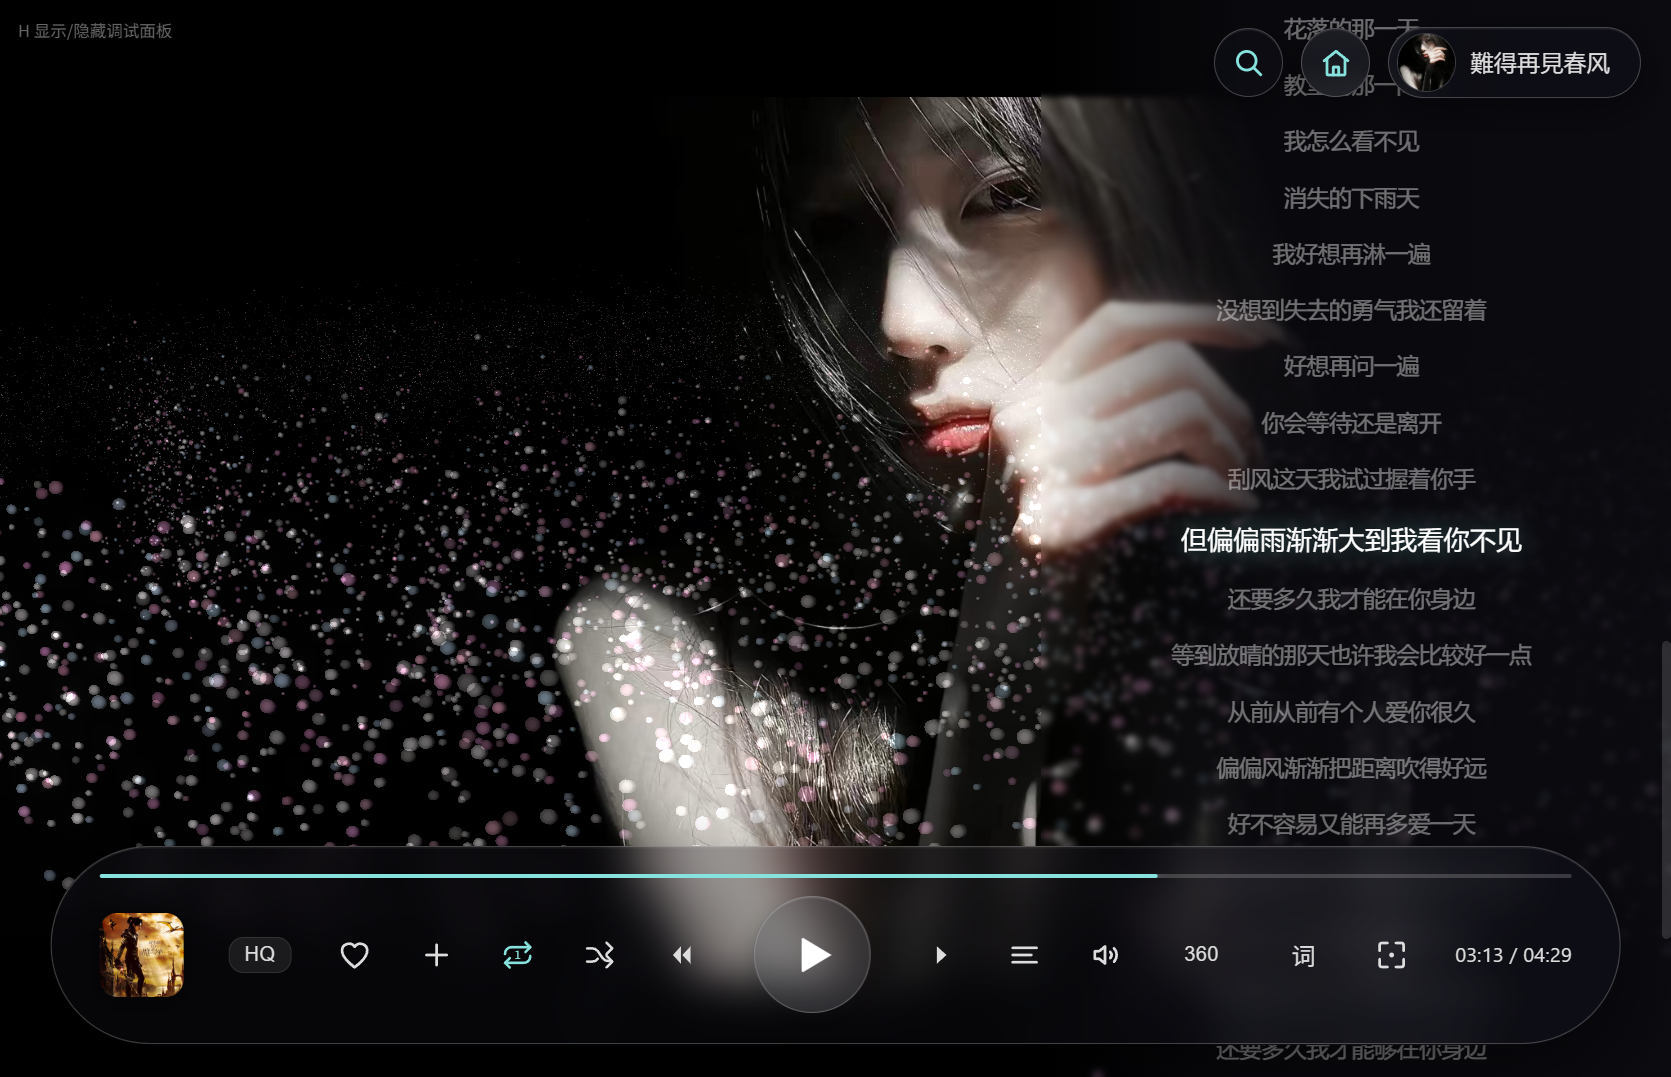
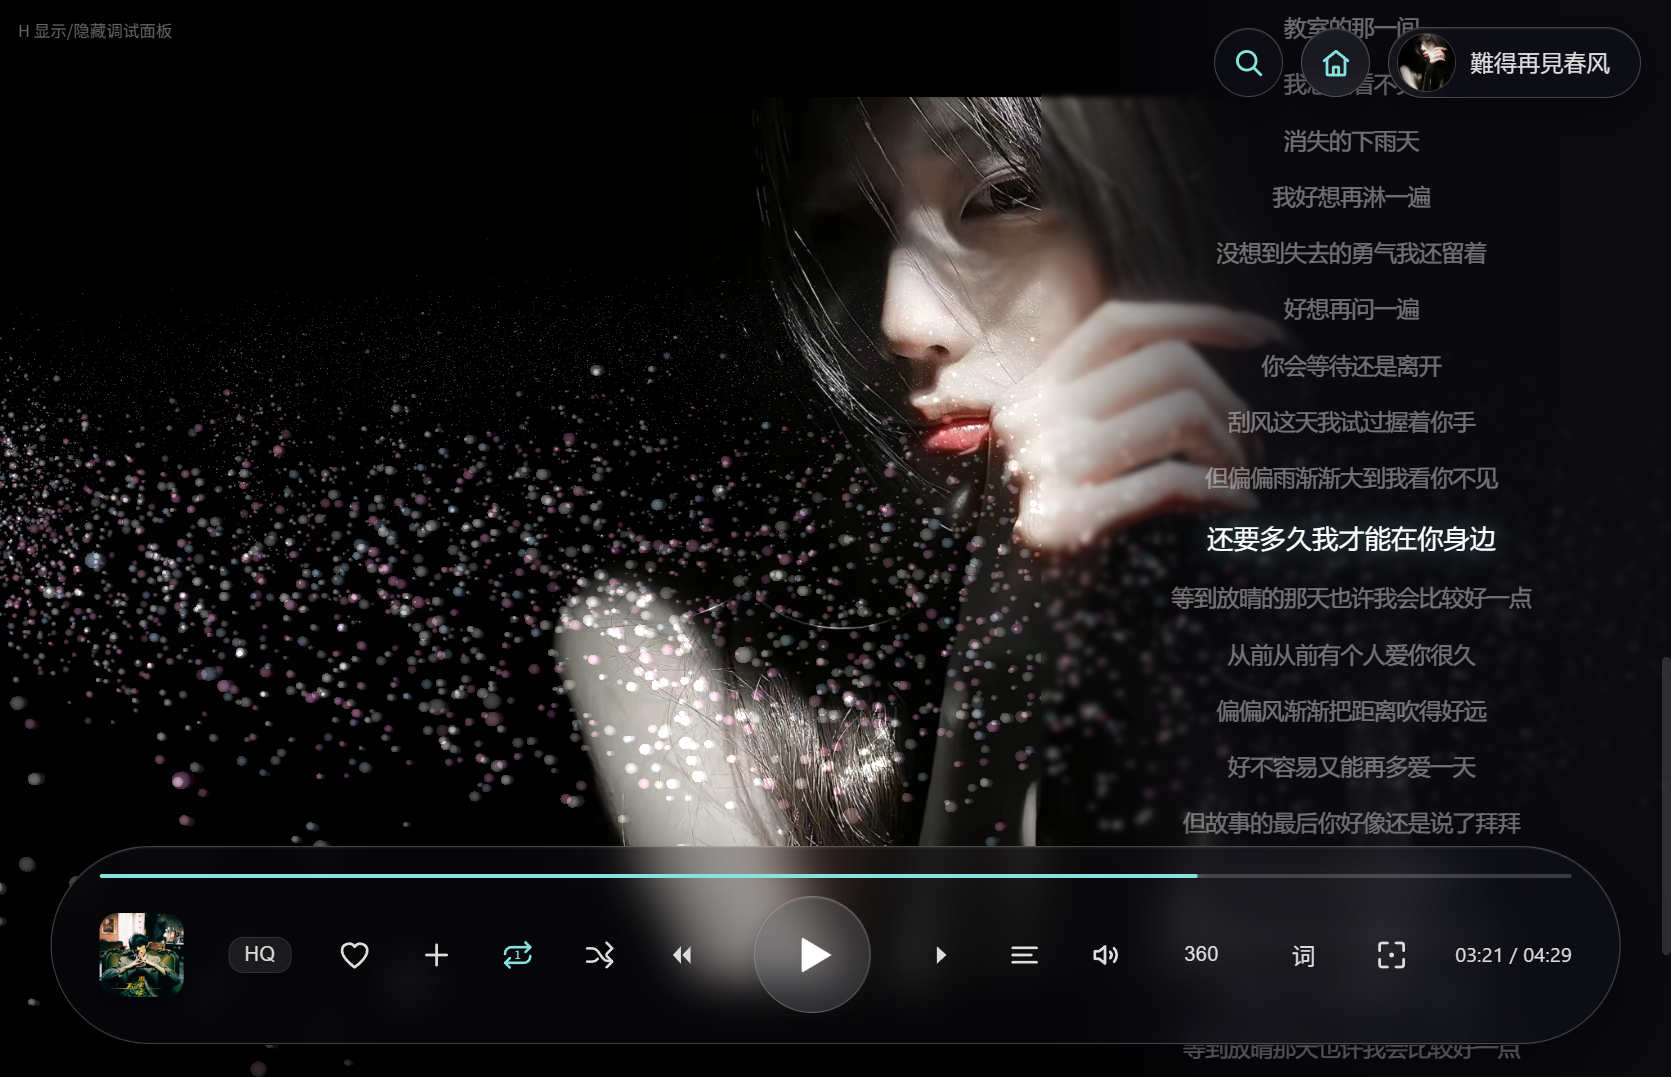
feat: 控制条默认沉到屏幕外，鼠标靠近底部再滑上来
行为：
- .player 默认加 .is-away 沉到屏幕外；鼠标进到「距底部 96px」的热区就滑上来
- 离开热区、且不在条子上、也没有弹层开着时，延迟 400ms 收回（给点缓冲，手一抖不至于晃没）
- 鼠标移出窗口（切到别的程序）直接收回
- 弹层开着（音量/音质菜单）时不收 —— 否则鼠标往上去够菜单，条子先跑了
- 开场先露面 1.2 秒再沉下去（一进来就空屏幕，容易让人以为程序坏了）

动效（「流畅」的关键）：
- 只用 transform 位移，**不动 opacity** —— opacity 被「控制条不透明度」设置占用着，
  applyUiSettings 直接写 .player 的 inline style，两处都用会打架
- 出场 ease-out（.46s cubic-bezier(.16,.86,.26,1)）、收回 ease-in（.3s cubic-bezier(.5,.03,.74,.4)）
- 隐藏时加 pointer-events:none，避免那条看不见的条子吃掉底部点击
- 位移量 = 100% + var(--capsule-bottom) + 18px，保证任何窗口高度都完全离屏（断言验证过）
- 隐藏时必须带上 translateX(-50%)：这条子本来就靠它水平居中

开关：
- 设置面板「界面」页新增「控制条自动隐藏」开关（S.ui.autoHideBar，默认开）
- 关掉时 applyUiSettings 会立刻把条子拉回来（不能指望下一次 mousemove）
- 「恢复默认」一并带上

可测性：
- window.lxApp 增加 bar 调试出口（show / hide / isHidden）—— 合成鼠标事件里的 :hover
  和真实鼠标行为不一致，测试必须能确定性地驱动它

测试（verify-ui.js）：
- 测试期间先关掉自动隐藏，保证「挨个点按钮」那批断言不受条子沉浮影响
- 新增 9 条断言：隐藏时有 is-away、隐藏后完全离屏、靠近底部滑上来且落回视口内、
  离开后收回、弹层开着时不收、开关存在 / 关掉即恢复显示 / 再打开 —— 全部通过，errors 为空
- 新增截图 shot-bar-hidden.png（条子沉下去的样子）
- 文档同步：03 的界面页表与「另外」小节、二次开发说明的当前状态表

产物：build-new/（build/ 被运行中的程序占用，build-exe.js 的保护逻辑会拒绝打包）
已核对新包 asar 内含 is-away / initAutoHideBar / lxUiAutoHide

diff --git a/src/renderer/app.js b/src/renderer/app.js
@@ -231,7 +231,7 @@ const S = {
   sleepEnd: 0,
   sleepMinutes: 0,
   lastApiId: '',
-  ui: { blur: 0, brightness: 100, playerOpacity: 100, showTopbar: true },
+  ui: { blur: 0, brightness: 100, playerOpacity: 100, showTopbar: true, autoHideBar: true },
 
   load() {
     try {
@@ -732,6 +732,21 @@ const CSS = `
 /* ── 控制条与顶栏始终浮在最上层（歌词面板滑出时也不该盖住它们）── */
 .player, .topbar{ z-index: 75; }
 
+/* ── 控制条自动隐藏 ──
+   默认沉到屏幕外，鼠标进到底部热区再滑上来。
+   隐藏只用 transform，**不动 opacity** —— 那个被「控制条不透明度」设置占着
+   （applyUiSettings 直接写 .player 的 inline style，两处都用 opacity 会打架）。
+   出场用 ease-out（冲上来再缓停），收回用 ease-in（起步慢、越走越快）—— 这是「顺」的关键。
+   注意隐藏时要带上 translateX(-50%)：这个条子本来就靠它水平居中。 */
+.player{
+  transition: transform .46s cubic-bezier(.16,.86,.26,1);
+}
+.player.is-away{
+  transition: transform .3s cubic-bezier(.5,.03,.74,.4);
+  transform: translateX(-50%) translateY(calc(100% + var(--capsule-bottom, 24px) + 18px));
+  pointer-events: none;
+}
+
 /* ── 顶栏可拖窗口（按钮除外）── */
 .topbar{ -webkit-app-region: drag; }
 .topbar button, .topbar__user{ -webkit-app-region: no-drag; }
@@ -1137,6 +1152,13 @@ const PANEL_HTML = `
           <span class="lxRow__label">显示右上角顶栏</span>
           <button class="lxSwitch" id="lxUiTopbar"></button>
         </div>
+        <div class="lxRow">
+          <div>
+            <div class="lxRow__label">控制条自动隐藏</div>
+            <div class="lxRow__hint">鼠标移到窗口底部时滑出来</div>
+          </div>
+          <button class="lxSwitch" id="lxUiAutoHide"></button>
+        </div>
         <div class="lxBtns" style="margin-top:12px">
           <button class="lxBtn" id="lxUiReset">恢复默认</button>
         </div>
@@ -1436,6 +1458,12 @@ function applyUiSettings() {
   if (player) player.style.opacity = String(S.ui.playerOpacity / 100)
   const topbar = $('.topbar')
   if (topbar) topbar.classList.toggle('is-hidden', !S.ui.showTopbar)
+  // 关掉自动隐藏时把条子强行拉回来（不能指望下一次 mousemove）
+  if (player && !S.ui.autoHideBar) {
+    if (barTimer) { clearTimeout(barTimer); barTimer = null }
+    player.classList.remove('is-away')
+    barHidden = false
+  }
 
   const set = (id, textId, val) => {
     const el = $(id)
@@ -1448,6 +1476,8 @@ function applyUiSettings() {
   set('#lxUiOpacity', '#lxUiOpacityText', S.ui.playerOpacity)
   const tb = $('#lxUiTopbar')
   if (tb) tb.classList.toggle('is-on', S.ui.showTopbar)
+  const ab = $('#lxUiAutoHide')
+  if (ab) ab.classList.toggle('is-on', S.ui.autoHideBar)
 }
 
 /* ════════════════════════════════════════════════════════════
@@ -1580,6 +1610,62 @@ function openVolumePopup(anchor) {
   popEl = box
 
   setTimeout(() => document.addEventListener('pointerdown', onDocDown, true), 0)
+}
+
+/* ── 控制条自动隐藏 ──
+   判定就一条：鼠标进了「距底部 BAR_HOT 像素」的热区就滑上来，离开热区且不在条上、没有弹层，
+   延迟 400ms 再收回（给点缓冲，手一抖不至于把条子晃没了）。 */
+const BAR_HOT = 96            // 比控制条本体高一点：鼠标还没碰到底就能看到它升起来
+let barHidden = false
+let barTimer = null
+
+function hidePlayerBar() {
+  const bar = $('.player')
+  if (!bar || barHidden) return
+  bar.classList.add('is-away')
+  barHidden = true
+}
+
+function showPlayerBar() {
+  const bar = $('.player')
+  if (!bar) return
+  if (barTimer) { clearTimeout(barTimer); barTimer = null }
+  if (!barHidden) return
+  bar.classList.remove('is-away')
+  barHidden = false
+}
+
+function initAutoHideBar() {
+  const bar = $('.player')
+  if (!bar) return
+
+  // 开场先露面 1.2 秒再沉下去 —— 一进来就是空屏幕，容易让人以为程序坏了
+  setTimeout(() => {
+    if (S.ui.autoHideBar && !bar.matches(':hover') && !popEl) hidePlayerBar()
+  }, 1200)
+
+  window.addEventListener('mousemove', e => {
+    if (!S.ui.autoHideBar) return
+    if (e.clientY >= window.innerHeight - BAR_HOT) {
+      showPlayerBar()
+      return
+    }
+    if (barHidden) return
+    // 弹层开着（音量/音质）或鼠标还在条子上：别收，不然够不着上面的弹层
+    if (popEl || bar.matches(':hover')) {
+      if (barTimer) { clearTimeout(barTimer); barTimer = null }
+      return
+    }
+    if (barTimer) return
+    barTimer = setTimeout(() => { barTimer = null; hidePlayerBar() }, 400)
+  })
+
+  // 鼠标移出窗口（比如切到别的程序）：直接收起来
+  document.addEventListener('mouseleave', () => {
+    if (!S.ui.autoHideBar || popEl) return
+    if (barTimer) { clearTimeout(barTimer); barTimer = null }
+    hidePlayerBar()
+  })
 }
 
 /** 睡眠定时：控制条上那个时钟按钮已换成音量，现在只被设置面板调用 */
@@ -2275,8 +2361,14 @@ function bindPanel() {
     S.save()
     applyUiSettings()
   })
+  $('#lxUiAutoHide').addEventListener('click', () => {
+    S.ui.autoHideBar = !S.ui.autoHideBar
+    S.save()
+    applyUiSettings()
+    if (S.ui.autoHideBar) toast('鼠标移到窗口底部会弹出控制条')
+  })
   $('#lxUiReset').addEventListener('click', () => {
-    S.ui = { blur: 0, brightness: 100, playerOpacity: 100, showTopbar: true }
+    S.ui = { blur: 0, brightness: 100, playerOpacity: 100, showTopbar: true, autoHideBar: true }
     S.save()
     applyUiSettings()
     renderControls()
@@ -2525,6 +2617,7 @@ async function boot() {
   bindSearch()
   bindKeyboard()
   injectTopbarSearch()
+  initAutoHideBar()
 
   renderPlayingInfo()
   renderModeIcons()
@@ -2548,7 +2641,12 @@ async function boot() {
     console.warn('[lx] 音源初始化失败', e)
   }
 
-  window.lxApp = { S, P, lx, ACT, openPanel, closePanel, openSearch, closeSearch, addLocalFiles, audio }
+  window.lxApp = {
+    S, P, lx, ACT, openPanel, closePanel, openSearch, closeSearch, addLocalFiles, audio,
+    // 控制条自动隐藏的调试出口：回归测试要确定性地驱动它，
+    // 不能靠合成鼠标坐标碰运气（合成事件的 :hover 和真实鼠标不一样）
+    bar: { show: showPlayerBar, hide: hidePlayerBar, isHidden: () => barHidden },
+  }
   console.log('[lx] 界面逻辑层已就绪。当前队列 ' + S.queue.length + ' 首')
 }
 

diff --git a/_docs/tools/verify-ui.js b/_docs/tools/verify-ui.js
@@ -55,6 +55,12 @@ const TEST = `(async () => {
   if (!window.lxApp) { R.fatal = 'lxApp 未挂载'; return R }
   const { S, P, lx, audio } = window.lxApp
 
+  // 控制条自动隐藏默认是开的，但会干扰下面「挨个点按钮」的测试（条子会沉下去）。
+  // 所以先关掉、强行拉回来，等所有按钮测完再单独测它。
+  S.ui.autoHideBar = false
+  window.lxApp.bar.show()
+  await nap(200)
+
   // ── 音源：先清掉历史，回到「全新安装」状态，再让 bootstrap 用默认源 ──
   // 否则上一轮验证装过的源会留着，导致每次测的源都不一样、结果不可比
   if (lx.list.length) {
@@ -255,6 +261,57 @@ const TEST = `(async () => {
   }
   q('.lxp__close').click()
 
+  // ── 控制条自动隐藏：默认沉到屏幕外，鼠标靠近底部再滑上来 ──
+  const barEl = q('.player')
+  const barApi = window.lxApp.bar
+  S.ui.autoHideBar = true
+  barApi.hide()
+  await nap(700)
+  R.barHiddenClass = barEl.classList.contains('is-away')
+  R.barOffscreenWhenHidden = barEl.getBoundingClientRect().top >= window.innerHeight - 1
+
+  // 鼠标进底部热区 → 该滑上来
+  window.dispatchEvent(new MouseEvent('mousemove', { clientX: 400, clientY: window.innerHeight - 20, bubbles: true }))
+  await nap(900)
+  R.barSlidesUpOnApproach = !barEl.classList.contains('is-away') &&
+    barEl.getBoundingClientRect().bottom <= window.innerHeight + 1
+
+  // 鼠标离开热区 → 延迟收回
+  window.dispatchEvent(new MouseEvent('mousemove', { clientX: 400, clientY: 80, bubbles: true }))
+  await nap(1400)
+  R.barHidesAfterLeave = barEl.classList.contains('is-away')
+
+  // 弹层开着时不能收（不然够不着音量/音质菜单）
+  barApi.show()
+  await nap(300)
+  q('.btn--std').click()
+  await nap(400)
+  R.popupOpenForBarTest = !!q('.lxPop')
+  window.dispatchEvent(new MouseEvent('mousemove', { clientX: 400, clientY: 80, bubbles: true }))
+  await nap(1300)
+  R.barStaysWhilePopupOpen = !barEl.classList.contains('is-away')
+  document.body.dispatchEvent(new PointerEvent('pointerdown', { bubbles: true }))
+  await nap(300)
+  R.popupClosedForBarTest = !q('.lxPop')
+
+  // 设置面板里的开关：关掉后条子应立刻保持显示
+  window.lxApp.openPanel('ui')
+  await nap(400)
+  const sw = q('#lxUiAutoHide')
+  R.autoHideSwitchExists = !!sw
+  if (sw) {
+    barApi.hide()
+    await nap(400)
+    sw.click()
+    await nap(500)
+    R.switchOffRestoresBar = !barEl.classList.contains('is-away') && !sw.classList.contains('is-on')
+    sw.click()
+    await nap(400)
+    R.switchBackOn = sw.classList.contains('is-on')
+  }
+  q('.lxp__close').click()
+  await nap(300)
+
   audio.pause()
   R.errors = errs
   return R
@@ -309,6 +366,18 @@ app.whenReady().then(async () => {
   log(JSON.stringify(res, null, 2))
 
   fs.mkdirSync(SHOT_DIR, { recursive: true })
+
+  // 截图 0：控制条沉下去的样子
+  try {
+    await win.webContents.executeJavaScript("window.lxApp.S.ui.autoHideBar = true; window.lxApp.bar.hide(); true")
+    await wait(900)
+    fs.writeFileSync(path.join(SHOT_DIR, 'shot-bar-hidden.png'), (await win.webContents.capturePage()).toPNG())
+    log('截图: _docs/screenshots/shot-bar-hidden.png')
+    // 后面几张图要让条子露着，先恢复
+    await win.webContents.executeJavaScript("window.lxApp.S.ui.autoHideBar = false; window.lxApp.bar.show(); true")
+    await wait(600)
+  } catch (e) { log('截图失败: ' + e.message) }
+
   try {
     await win.webContents.executeJavaScript("document.querySelector('.lxLyric').classList.add('is-on'); true")
     await wait(700)

diff --git a/_docs/03-界面逻辑层说明.md b/_docs/03-界面逻辑层说明.md
@@ -67,6 +67,11 @@ npm run build:renderer          # 产出 dist/index.html + dist/renderer.js
 - **右上角用户胶囊**：打开设置面板（控制页）。
 - **键盘**：空格播放/暂停、← → 快退快进 5 秒、↑ ↓ 音量、Ctrl+F 搜索加歌、Esc 关面板/关浮层。
 - **顶栏可拖动窗口**（`-webkit-app-region: drag`），按钮已排除。
+- **控制条会自动隐藏**：默认沉在屏幕外，鼠标进到窗口底部 96px（`BAR_HOT`）以内就滑上来；
+  离开热区、且不在条子上、也没有弹层开着时，延迟 400ms 收回。
+  出场用 ease-out、收回用 ease-in 两段缓动。隐藏只改 `transform`，**不动 opacity**
+  —— 那个被「控制条不透明度」设置占用（`applyUiSettings` 写的是 inline style，会打架）。
+  界面页可关。测试用 `window.lxApp.bar`（`show` / `hide` / `isHidden`）。
 
 ---
 
@@ -108,7 +113,7 @@ npm run build:renderer          # 产出 dist/index.html + dist/renderer.js
 | **音源** | 当前音源与状态徽标、选择文件导入、从链接导入、打开音源目录、已装源列表（点击切换 / 删除） |
 | **队列** | 搜索歌曲（酷我，直接加进队列）、当前播放队列、我的收藏 |
 | **控制** | 音量、音质、播放模式、空间音频、睡眠定时、缓存占用与清除 |
-| **界面** | 背景模糊、背景亮度、控制条不透明度、顶栏显隐、恢复默认 |
+| **界面** | 背景模糊、背景亮度、控制条不透明度、顶栏显隐、控制条自动隐藏、恢复默认 |
 
 「界面」页里的模糊/亮度作用在粒子画布 `#c` 上（CSS filter），不透明度作用在 `.player` 上。
 

diff --git a/二次开发说明.md b/二次开发说明.md
@@ -103,7 +103,7 @@ git add -A && git commit -m "说明"   # 提交一版
 | 后端（主进程 / 音源沙箱 / 数据库） | 原样保留，`npm run build:main` 编译通过 |
 | 界面 | 已换成 lizi 的「Void Nebula」，并接上完整行为逻辑层 |
 | 音源 | 端到端打通：导入 → 启用 → 取地址 → `<audio>` 播放 |
-| 控制条 | 15 个控件全部接上行为（含进度条拖拽、歌词侧栏、睡眠定时、空间音频） |
+| 控制条 | 15 个控件全部接上行为（含进度条拖拽、歌词侧栏、音量浮层与静音、空间音频、自动隐藏）；睡眠定时改到设置面板「控制」页 |
 | 设置面板 | 右上角房子按钮打开：音源 / 队列 / 控制 / 界面 四页 |
 | 搜索 | 面板「队列」页里有酷我搜索，可搜歌加进队列（界面上的主搜索页尚未做） |
 | 打包 | 未做，目前用 `start.cmd` 直接跑源码 |
